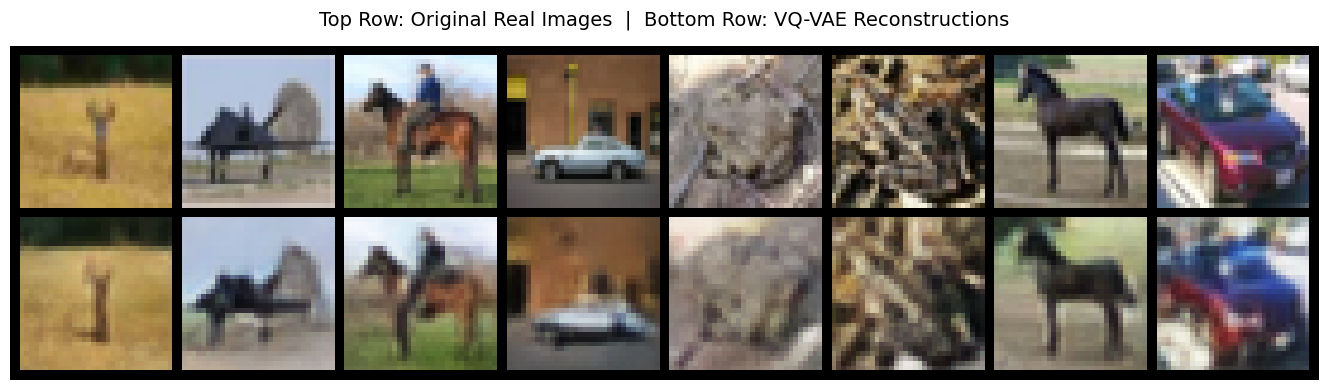
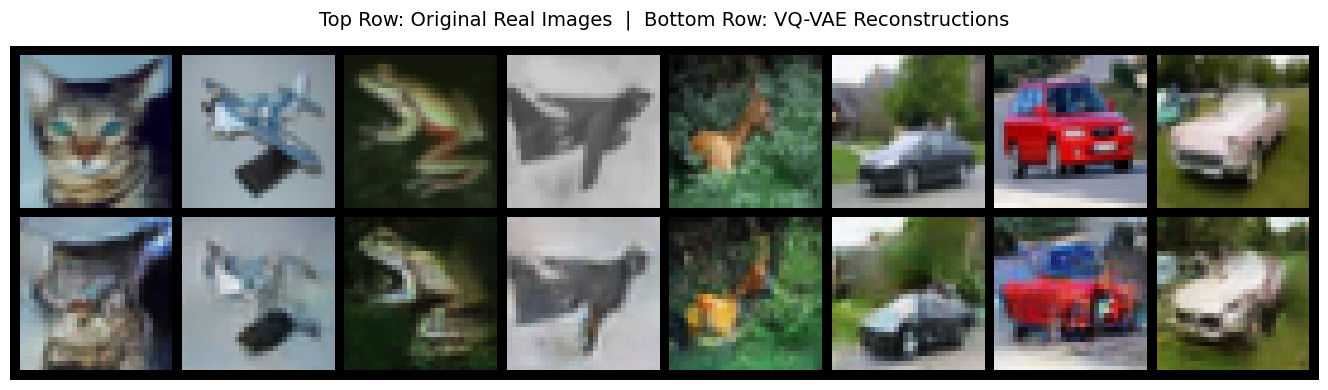
change generator from vqvae to vqgan

diff --git a/cifar10/train.py b/cifar10/train.py
@@ -6,12 +6,35 @@ from torchvision import datasets, transforms
 import os
 import lpips 
 
-from model import VQVAE, build_discrete_hclt_prior
+from model import VQVAE, build_discrete_hclt_prior, PatchGANDiscriminator
 
-def train_vqvae(device, batch_size=128, epochs=100):
-    print("\n--- PHASE 1: Training VQ-VAE ---")
+# --- Hinge Losses ---
+def hinge_d_loss(logits_real, logits_fake):
+    loss_real = torch.mean(F.relu(1. - logits_real))
+    loss_fake = torch.mean(F.relu(1. + logits_fake))
+    return 0.5 * (loss_real + loss_fake)
+
+def hinge_g_loss(logits_fake):
+    return -torch.mean(logits_fake)
+
+def calculate_adaptive_weight(loss_l1, loss_g, last_layer_weight):
+    # Get the gradients of the L1 and GAN loss with respect to the last layer
+    l1_grads = torch.autograd.grad(loss_l1, last_layer_weight, retain_graph=True)[0]
+    g_grads = torch.autograd.grad(loss_g, last_layer_weight, retain_graph=True)[0]
+    
+    # Calculate the norm of the gradients
+    d_weight = torch.norm(l1_grads) / (torch.norm(g_grads) + 1e-4)
+    d_weight = torch.clamp(d_weight, 0.0, 1e4).detach()
+    return d_weight
+
+def train_vqvae(device, batch_size=128, epochs=200, disc_start_epoch=20):
+    print("\n--- PHASE 1: Training VQ-VAE (with Discriminator) ---")
     model = VQVAE(num_embeddings=128, embedding_dim=64).to(device)
+    discriminator = PatchGANDiscriminator().to(device) # NEW: Initialize Discriminator
+    
     optimizer = optim.Adam(model.parameters(), lr=1e-3)
+    opt_disc = optim.Adam(discriminator.parameters(), lr=1e-3) # NEW: Discriminator Optimizer
+    
     scheduler = optim.lr_scheduler.CosineAnnealingLR(optimizer, T_max=epochs, eta_min=1e-5)
     loss_fn_vgg = lpips.LPIPS(net='vgg').to(device)
     
@@ -22,8 +45,14 @@ def train_vqvae(device, batch_size=128, epochs=100):
     model.train()
     for epoch in range(epochs):
         total_loss = 0
+        total_d_loss = 0 # NEW: Track D Loss
+        
         for x, _ in loader:
             x = x.to(device)
+            
+            # ==============================================================
+            # 1. Train Generator (VQ-VAE)
+            # ==============================================================
             optimizer.zero_grad()
             
             x_recon, vq_loss, _ = model(x)
@@ -31,18 +60,49 @@ def train_vqvae(device, batch_size=128, epochs=100):
             loss_l1 = F.l1_loss(x_recon, x)
             loss_lpips = loss_fn_vgg(x_recon * 2.0 - 1.0, x * 2.0 - 1.0).mean()
             
-            # Combined Loss
-            loss = loss_l1 + (0.5 * loss_lpips) + vq_loss
+            # Adversarial Loss (Activates after warmup)
+            if epoch >= disc_start_epoch:
+                logits_fake = discriminator(x_recon)
+                loss_g = hinge_g_loss(logits_fake)
+                
+                last_layer = model.decoder[-2].weight 
+                adaptive_gan_weight = calculate_adaptive_weight(loss_l1, loss_g, last_layer)
+                
+                loss = loss_l1 + (0.25 * loss_lpips) + vq_loss + (adaptive_gan_weight * loss_g)
+            else:
+                loss_g = torch.tensor(0.0).to(device)
+                loss = loss_l1 + (0.25 * loss_lpips) + vq_loss
+            
             loss.backward()
             optimizer.step()
             total_loss += loss.item()
+            
+            # ==============================================================
+            # 2. Train Discriminator
+            # ==============================================================
+            if epoch >= disc_start_epoch:
+                opt_disc.zero_grad()
+                
+                # Detach x_recon so gradients don't flow back into the Generator
+                logits_real = discriminator(x.detach())
+                logits_fake = discriminator(x_recon.detach())
+                
+                d_loss = hinge_d_loss(logits_real, logits_fake)
+                d_loss.backward()
+                opt_disc.step()
+                total_d_loss += d_loss.item()
         
         scheduler.step()
         current_lr = scheduler.get_last_lr()[0]
 
-        print(f"Epoch [{epoch+1}/{epochs}] | LR: {current_lr:.6f} | VQ-VAE Loss: {total_loss/len(loader):.4f}")
+        # Calculate average losses for printing
+        avg_g_loss = total_loss / len(loader)
+        avg_d_loss = total_d_loss / len(loader) if epoch >= disc_start_epoch else 0.0
+        
+        print(f"Epoch [{epoch+1}/{epochs}] | LR: {current_lr:.6f} | G Loss: {avg_g_loss:.4f} | D Loss: {avg_d_loss:.4f}")
 
     torch.save(model.state_dict(), 'checkpoints/vqvae_stage1.pth')
+    torch.save(discriminator.state_dict(), 'checkpoints/discriminator_stage1.pth') # Optional: save discriminator
     print("Phase 1 Complete. VQ-VAE Saved.")
 
 def extract_discrete_latents(device):
@@ -68,7 +128,7 @@ def extract_discrete_latents(device):
     print(f"Active Tokens Used: {len(torch.unique(latents))}/128")
     print(f"Phase 2 Complete. {latents.shape[0]} Discrete Maps Saved.")
 
-def train_discrete_pc(device, epochs=100):
+def train_discrete_pc(device, epochs=200):
     print("\n--- PHASE 3: Training Exact Categorical HCLT ---")
     data = torch.load('checkpoints/cifar10_discrete_latents.pt', map_location='cpu')
     latents = data['latents'].view(-1, 64) # Shape: [50000, 64]

diff --git a/cifar10/eval_fid.py b/cifar10/eval_fid.py
@@ -5,21 +5,32 @@ from torch.utils.data import DataLoader
 from torchmetrics.image.fid import FrechetInceptionDistance
 from tqdm import tqdm
 
-# Import the new VQ architectures
-from model import VQVAE, build_discrete_hclt_prior
+# Import the new VQ architectures and Discriminator
+from model import VQVAE, build_discrete_hclt_prior, PatchGANDiscriminator
 
 def evaluate_vq_fid():
     device = torch.device("cuda" if torch.cuda.is_available() else "cpu")
     num_eval_samples = 10000 
     batch_size = 128
     
-    print(f"Initializing VQ-VAE FID Evaluator on {device}...")
+    print(f"Initializing VQGAN FID & Discriminator Evaluator on {device}...")
 
     # 1. Load TorchMetrics FID
     fid = FrechetInceptionDistance(feature=2048, normalize=True).to(device)
 
-    # 2. Process Real CIFAR-10 Images
-    print("Extracting Inception features from Real CIFAR-10...")
+    # 2. Load the Discriminator for Diagnostic Scoring
+    print("Loading PatchGAN Discriminator...")
+    discriminator = PatchGANDiscriminator().to(device)
+    # Ensure you saved this in your training script!
+    discriminator.load_state_dict(torch.load('checkpoints/discriminator_stage1.pth', map_location=device, weights_only=True))
+    discriminator.eval()
+
+    # Trackers for Discriminator accuracy
+    total_real_score = 0.0
+    total_fake_score = 0.0
+
+    # 3. Process Real CIFAR-10 Images
+    print("Extracting Inception features & evaluating Real Images...")
     transform = transforms.ToTensor()
     dataset = datasets.CIFAR10(root='./data', train=False, transform=transform, download=True)
     real_loader = DataLoader(dataset, batch_size=batch_size, shuffle=True, num_workers=4)
@@ -32,23 +43,29 @@ def evaluate_vq_fid():
             
             x = x.to(device)
             fid.update(x, real=True)
+            
+            # Discriminator Evaluation on Real Data
+            # Sigmoid converts raw logits to a probability (1.0 = Real, 0.0 = Fake)
+            real_preds = torch.sigmoid(discriminator(x))
+            total_real_score += real_preds.mean().item() * x.size(0)
+            
             real_processed += x.size(0)
 
-    # 3. Load the Discrete VQ-VAE Pipeline
-    print("Loading VQ-VAE Generator...")
+    # 4. Load the Discrete VQ-VAE Pipeline
+    print("Loading VQ-VAE Generator & Prior...")
     vae_model = VQVAE(num_embeddings=128, embedding_dim=64).to(device)
     vae_model.load_state_dict(torch.load('checkpoints/vqvae_stage1.pth', map_location=device, weights_only=True))
     vae_model.eval()
 
     # Load and reshape the static discrete latents for structural building
     data = torch.load('checkpoints/cifar10_discrete_latents.pt', map_location='cpu')
-    latents = data['latents'].view(-1, 64) # Ensure it is [50000, 64]
+    latents = data['latents'].view(-1, 64) 
     
     pc_prior = build_discrete_hclt_prior(latents, num_cats=128, device=device)
     pc_prior.load_state_dict(torch.load('checkpoints/vq_hclt_pc.pth', map_location=device, weights_only=True))
 
-    # 4. Process Generated Images
-    print("Extracting Inception features from VQ Generated Images...")
+    # 5. Process Generated Images
+    print("Extracting Inception features & evaluating Generated Images...")
     generated_processed = 0
     with torch.no_grad():
         with tqdm(total=num_eval_samples, desc="Generated Images") as pbar:
@@ -70,16 +87,30 @@ def evaluate_vq_fid():
                 # Update FID metric
                 fid.update(generated_imgs, real=False)
                 
+                # Discriminator Evaluation on Fake Data
+                fake_preds = torch.sigmoid(discriminator(generated_imgs))
+                total_fake_score += fake_preds.mean().item() * current_batch
+                
                 generated_processed += current_batch
                 pbar.update(current_batch)
 
-    # 5. Compute Final Score
-    print("Calculating final Frechet Distance (this might take a moment)...")
+    # 6. Compute Final Scores
+    print("Calculating final metrics...")
     fid_score = fid.compute()
     
-    print("-" * 40)
-    print(f"FINAL VQ-VAE FID SCORE: {fid_score.item():.2f}")
-    print("-" * 40)
+    avg_real_confidence = (total_real_score / real_processed) * 100
+    avg_fake_confidence = (total_fake_score / generated_processed) * 100
+    
+    print("\n" + "=" * 50)
+    print("               EVALUATION RESULTS")
+    print("=" * 50)
+    print(f"Frechet Inception Distance (FID): {fid_score.item():.2f}")
+    print("-" * 50)
+    print(f"Discriminator Confidence (Real Images): {avg_real_confidence:.2f}%")
+    print(f"Discriminator Confidence (Fake Images): {avg_fake_confidence:.2f}%")
+    print("  * Note: For fakes, closer to 50% means the generator")
+    print("    is successfully fooling the discriminator.")
+    print("=" * 50)
 
 if __name__ == "__main__":
     evaluate_vq_fid()

diff --git a/cifar10/model.py b/cifar10/model.py
@@ -124,6 +124,38 @@ class VQVAE(nn.Module):
         x_recon = self.decoder(z_q)
         return x_recon, vq_loss, indices
 
+class PatchGANDiscriminator(nn.Module):
+    def __init__(self, in_channels=3, ndf=64):
+        super().__init__()
+        # 32x32 -> 16x16
+        self.layer1 = nn.Sequential(
+            nn.Conv2d(in_channels, ndf, kernel_size=4, stride=2, padding=1),
+            nn.LeakyReLU(0.2, True)
+        )
+        # 16x16 -> 8x8
+        self.layer2 = nn.Sequential(
+            nn.Conv2d(ndf, ndf * 2, kernel_size=4, stride=2, padding=1, bias=False),
+            nn.BatchNorm2d(ndf * 2),
+            nn.LeakyReLU(0.2, True)
+        )
+        # # 8x8 -> 8x8
+        # self.layer3 = nn.Sequential(
+        #     nn.Conv2d(ndf * 2, ndf * 4, kernel_size=3, stride=1, padding=1, bias=False),
+        #     nn.BatchNorm2d(ndf * 4),
+        #     nn.LeakyReLU(0.2, True)
+        # )
+        # # Output layer: 8x8 -> 8x8 single channel prediction map
+        # self.layer4 = nn.Conv2d(ndf * 4, 1, kernel_size=3, stride=1, padding=1)
+        self.layer3 = nn.Conv2d(ndf * 2, 1, kernel_size=3, stride=1, padding=1)
+        
+    def forward(self, x):
+        x = self.layer1(x)
+        x = self.layer2(x)
+        x = self.layer3(x)
+        # return self.layer4(x)
+        return x
+
+# ========= Latent Probabilistic Circuit =========
 def build_discrete_hclt_prior(latent_data, num_cats=512, device='cuda'):
     """
     Constructs the HCLT Prior specifically for DISCRETE Categorical tokens.

diff --git a/cifar10/eval_recon.py b/cifar10/eval_recon.py
@@ -9,7 +9,7 @@ from tqdm import tqdm
 from model import VQVAE
 
 # --- ADDED: Visualization Function ---
-def visualize_reconstructions(real_imgs, recon_imgs, num_images=8, filename="reconstruction_comparison.png"):
+def visualize_reconstructions(real_imgs, recon_imgs, num_images=8, filename="assets/reconstruction_comparison.png"):
     """Saves and displays a grid comparing real and reconstructed images."""
     print("Generating visualization...")
     # Cap the number of images to display
@@ -35,7 +35,7 @@ def visualize_reconstructions(real_imgs, recon_imgs, num_images=8, filename="rec
     plt.axis('off')
     plt.title('Top Row: Original Real Images  |  Bottom Row: VQ-VAE Reconstructions', fontsize=14, pad=15)
     plt.tight_layout()
-    plt.savefig("assets" + filename, bbox_inches='tight')
+    plt.savefig(filename, bbox_inches='tight')
     print(f"Saved visual comparison to '{filename}'")
 # -------------------------------------
 
